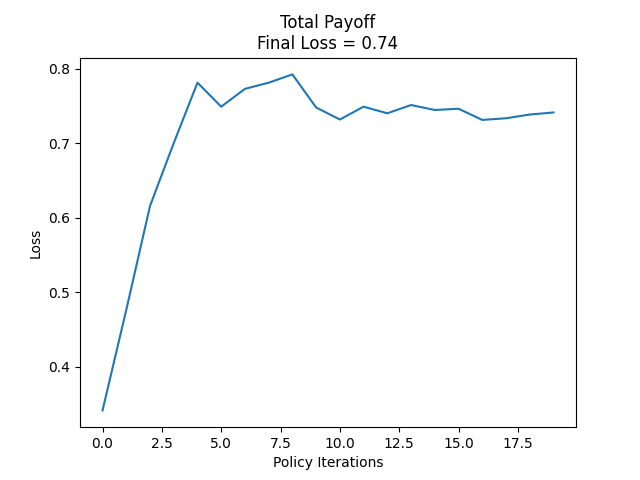
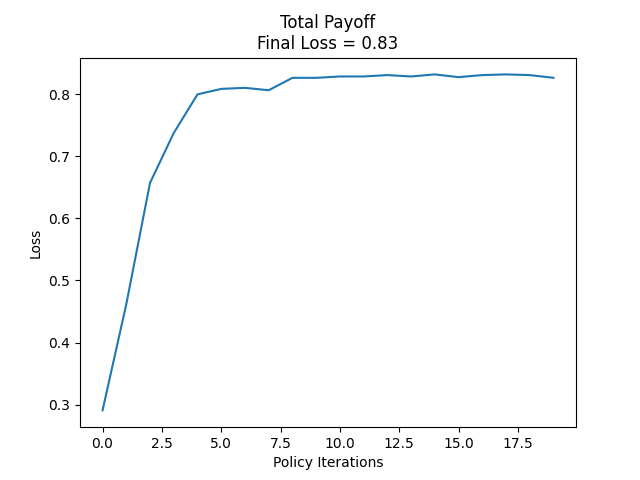
implement per minute max revenue

diff --git a/Utils/mdp.py b/Utils/mdp.py
@@ -353,7 +353,8 @@ class MarkovDecisionProcess:
         
         self.reward_df = reward_query.get_reward_df()
         self.reward_wide = torch.tensor(self.reward_query.get_wide_reward(self.time_horizon, len(self.regions)))
-        self.adj_reward_wide = torch.tensor(self.get_wide_reward_adjusted(self.time_horizon, len(self.regions)))
+        self.adj_reward_wide, self.decomp_trip_counts_dct = self.get_wide_reward_adjusted(self.time_horizon, len(self.regions))
+        self.adj_reward_wide = torch.tensor(self.adj_reward_wide)
         self.adj_reward_wide_sorted = np.sort(self.adj_reward_wide.numpy(), axis = 1)[:,::-1]
         self.adj_reward_wide_sorted_indices = np.argsort(self.adj_reward_wide.numpy(), axis = 1)[:,::-1]
         self.max_atomic_payoff = self.reward_df["Payoff"].max()
@@ -456,7 +457,9 @@ class MarkovDecisionProcess:
     ## Get adjusted reward for each trip
     def get_wide_reward_adjusted(self, time_horizon, num_regions):
         mat = np.zeros((time_horizon, num_regions * num_regions))
+        dct = {}
         for t in range(time_horizon):
+            dct[t] = np.zeros((time_horizon, num_regions * num_regions))
             for origin in range(num_regions):
                 for dest in range(num_regions):
                     tmp_df = self.reward_df[(self.reward_df["T"] == t) & (self.reward_df["Origin"] == origin) & (self.reward_df["Destination"] == dest) & (self.reward_df["Type"] == "Travel") & (self.reward_df["Pickup"] == 1)]
@@ -465,6 +468,7 @@ class MarkovDecisionProcess:
                     else:
                         revenue = 0
                     trip_distance = self.map.distance(origin, dest)
+                    trip_time = self.map.time_to_location(origin, dest, t)
                     battery_needed = self.battery_per_step * trip_distance
                     rate_0 = self.charging_rates[0]
                     tmp_df = self.reward_df[(self.reward_df["T"] == t) & (self.reward_df["Type"] == "Charge") & (self.reward_df["Rate"] == rate_0)]
@@ -472,8 +476,13 @@ class MarkovDecisionProcess:
                         charging_cost = tmp_df.iloc[0]["Payoff"]
                     else:
                         charging_cost = 0
-                    mat[t, origin * num_regions + dest] = revenue + battery_needed * charging_cost / rate_0
-        return mat
+                    adj_reward = revenue + battery_needed * charging_cost / rate_0
+                    if trip_time > 0:
+                        adj_reward = adj_reward / trip_time
+                    indices = [x if x < time_horizon else x - time_horizon for x in range(t, t + max(trip_time, 1))]
+                    mat[indices, origin * num_regions + dest] = np.maximum(adj_reward, mat[indices, origin * num_regions + dest])
+                    dct[t][indices, origin * num_regions + dest] = 1
+        return mat, dct
     
     ## Prepare car deployment vectors
     def car_deployment_prepare(self):
@@ -808,6 +817,9 @@ class MarkovDecisionProcess:
 #        total_revenue = torch.sum(self.adj_reward_wide * self.trip_arrivals)
         trip_arrivals_sorted = np.zeros((self.time_horizon, len(self.regions) ** 2))
         trip_arrivals_numpy = self.trip_arrivals.numpy()
+        trip_arrivals_agg = np.zeros((self.time_horizon, len(self.regions) ** 2))
+        for t in range(self.time_horizon):
+            trip_arrivals_agg += trip_arrivals_numpy[t,:] * self.decomp_trip_counts_dct[t]
         for t in range(self.time_horizon):
             trip_arrivals_sorted[t,:] = trip_arrivals_numpy[t,self.adj_reward_wide_sorted_indices[t,:]]
         mask = np.ones(self.time_horizon) * self.num_total_cars
